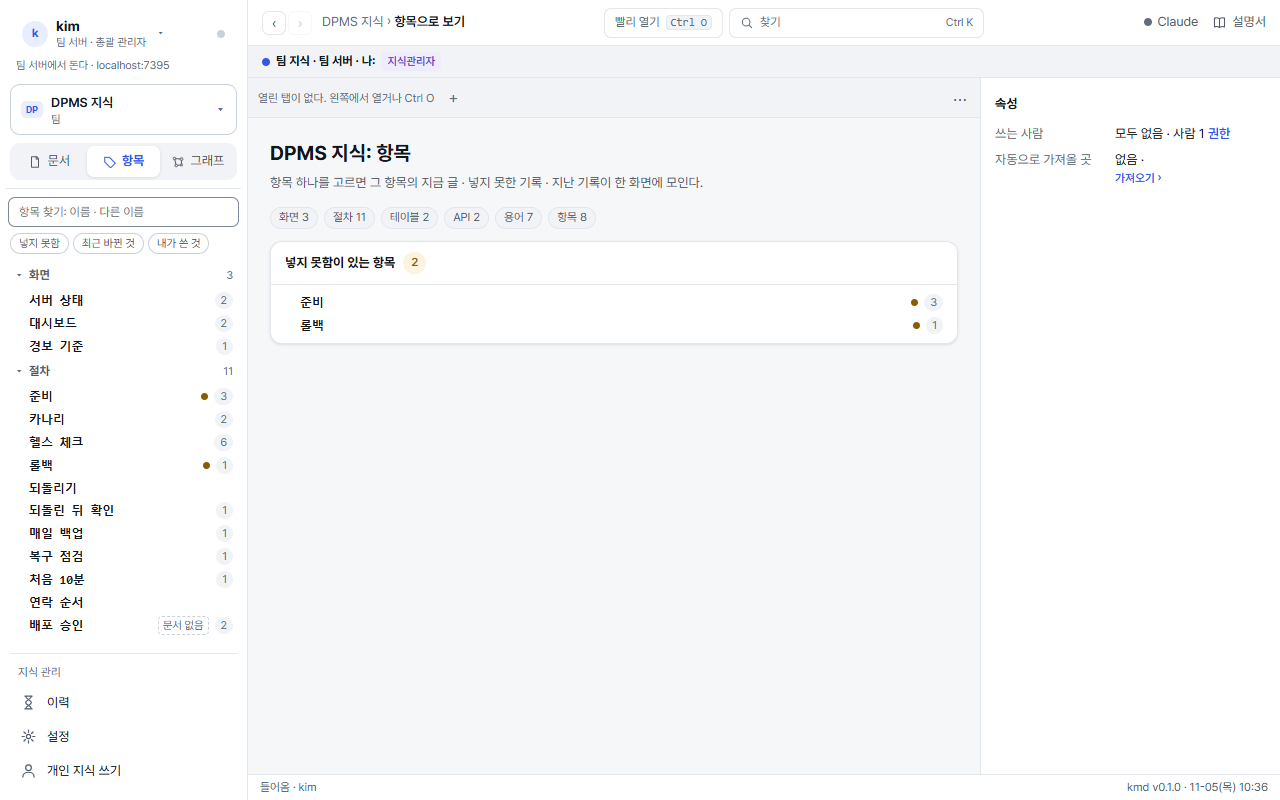
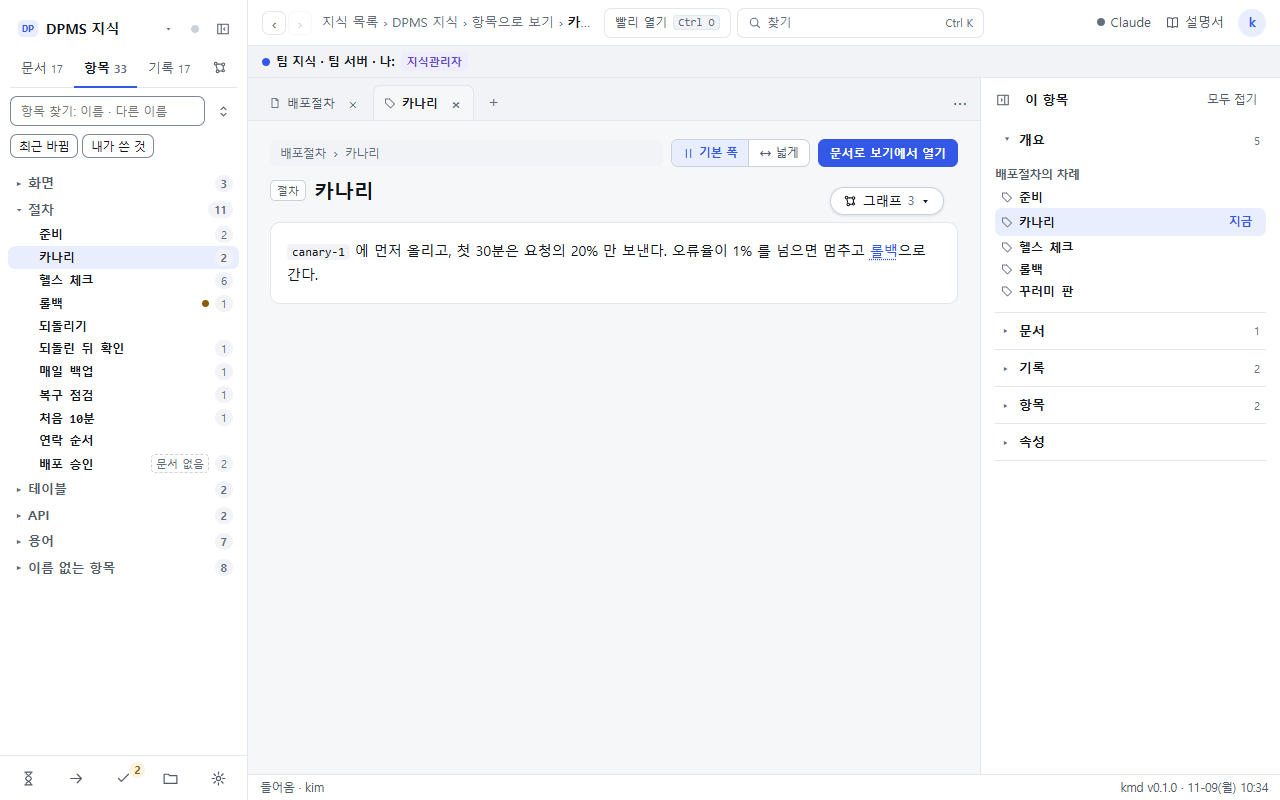
docs_ops 최신으로: 서비스 전체(md · 그림 판) · 설명서 다섯 장 · 설명서 그림 30장 다시 찍기
- 서비스 전체: 기준일 2026-11-09 · HEAD 24b4b72 · 188 빌드 0.1.0-20261109-0047 · 화면 지도(옆 메뉴 세 층 + 관리 아이콘 줄 · 설정 본문 안 메뉴 · 머리 줄 / 위 띠) · 말(승인 받고 넣기 · 이슈 주소 · 지켜보기 · 지식 점검) · 저장 단계(승인 기다림 · 함께 고친 항목 거절) · 보내기 [지금 다시] 횟수 · match 문서 제목 · local 범위 연결 · 계정(비밀번호 바꾸기 · 모든 곳에서 나가기 고름 · 한 사람 내보내기)
- 그림 판: 화면 지도 그림을 지금 메뉴로 다시 그림 · 말 표 넷 더함 · helpContact · 계정 줄
- 설명서: 사용자(지식 홈 · 찾기 거르기 · 상태 칩 · 그래프 뻗기 · 편집기 거절 · 표 붙이기 · 비밀번호 바꾸기 · 나가기 길 · 그림 핀 9개 새 자리) · 개인(지식 관리 줄 · 폴더 떼기 · 보내기 그림 · 핀) · 관리자(helpContact · 한 사람 내보내기 · 잠김 표시) · 지식관리자(지식 점검 카드)
- 그림: 옆 메뉴 다시 짜기 뒤 화면으로 30장 모두(시험 고정 자료 · 가짜 Claude · 1280×800 · 임시 폴더 경로는 /srv/kmd · D:\kmd 로 가림)

diff --git a/docs_ops/kmd_서비스_전체.html b/docs_ops/kmd_서비스_전체.html
@@ -200,7 +200,7 @@ svg.arch .hit:focus-visible rect{stroke:var(--accent);stroke-width:3;stroke-dash
 <div class="m-hero">
 <h1>kmd 서비스 전체</h1>
 <p>팀과 내 PC 의 지식(md 문서 · 기록)을 사람은 화면으로, Claude Code 세션은 MCP 로 같이 읽고 쓴다. 어느 길로 들어오든 기록과 항목 조각이 <b>한 번의 저장</b>으로 같이 바뀌고, 저장 검사를 넘지 못한 것은 기록만 남아 「넣지 못함」 으로 보인다. 지식 하나 = 폴더 하나 = git 저장소 하나.</p>
-<p class="small muted">기준일 2026-11-05 · HEAD e764294 · 188 빌드 0.1.0-20261105-1040 · 글로 보는 판 <a href="kmd_서비스_전체.md">kmd_서비스_전체.md</a> · 화면별 쓰는 법 <a href="manual/">설명서</a></p>
+<p class="small muted">기준일 2026-11-09 · HEAD 24b4b72 · 188 빌드 0.1.0-20261109-0047 · 글로 보는 판 <a href="kmd_서비스_전체.md">kmd_서비스_전체.md</a> · 화면별 쓰는 법 <a href="manual/">설명서</a></p>
 <p class="small muted">「저장이 곧 반영」 개편(2026-11 · <a href="../docs/품질개선/KMD_개편_설계.md">KMD_개편_설계.md</a>): 예전에는 기록을 모아 두었다가 정리 때 문서에 넣었다. 개편으로 정리를 걷었고, 지금은 모든 채널이 기록과 항목 조각을 한 번에 저장하고 그 자리에서 넣거나 「넣지 못함」 으로 남긴다.</p>
 <div class="kpis">
 <div class="kpi"><b>2</b><small>프로그램: 팀 프로그램(팀 서버) · 개인 프로그램</small></div>
@@ -413,6 +413,10 @@ svg.arch .hit:focus-visible rect{stroke:var(--accent);stroke-width:3;stroke-dash
 <tr><td><b>바로 넣기</b></td><td>개인 프로그램이 저장 뒤 곧바로 남은 기록을 문서 항목에 넣는 일(<code>core/pcplace.js</code>). 팀에는 없다</td><td>개인 지식만</td></tr>
 <tr><td><b>문서 다듬기</b></td><td>지식관리자가 문서 하나를 골라 거는 문체 · 짜임 정돈. 항목마다 값이 같을 때만 넣는다</td><td>문서 머리 [다듬기] · 일감 polish</td></tr>
 <tr><td><b>다시 그리기 · 빠진 항목 채우기</b></td><td>있는 항목을 그 항목의 기록 전부로 지금 상태로 다시 쓰거나, 사건 문서(회의록 …)에 빠진 회의를 그 기록으로 날짜 자리에 채운다. 저장 검사는 화면 저장과 같고 항목마다 사람이 승인한다. 화면 기능이 아니다</td><td>Claude Code 스킬 <code>kmd-migrate</code>(지식관리자) · 지식관리자 설명서 6절</td></tr>
+<tr><td><b>승인 받고 넣기</b></td><td>지식관리자가 켜는 지식 설정. 쓰기 자리의 저장은 검사를 넘어도 넣지 못함 「승인 기다림」 으로 두고, 지식관리자가 [승인해 넣기] 로 넣으려던 글 그대로 넣는다(지식관리자 자신의 저장 · 들이기는 그대로)</td><td>지식 카드 ⋯ · <code>_members.md</code></td></tr>
+<tr><td><b>옛 판 · 지운 항목</b></td><td>문서 머리 [옛 판] 은 그 문서를 바꾼 판(git)과 그때의 글 · [지금과 견주기]. 지식 홈 「최근에 지운 항목」 은 지운 때의 글로 다시 세운다(쓰기 자리부터)</td><td>이력에 남는다</td></tr>
+<tr><td><b>지식 점검</b></td><td>지식 홈 카드(지식관리자): 이름 없는 기록 · 장부 밖 이름 · 자리 잃은 이름 · 이름 없는 항목 · 다른 이름 겹침 · 깨진 머리 · 깨진 문서 링크</td><td><code>core/guard.js</code> · <code>kmd guard</code></td></tr>
+<tr><td><b>감사 기록 · 찾기 점검</b></td><td>관리 쓰기 요청을 누가 · 때 · 길 · 지식 · 결과로(본문 없음). 찾기 점검은 「제목 문제」 와 이름을 걷어 낸 「바꾼 문제」 를 함께 잰다</td><td>설정 › 점검 · <code>audit.jsonl</code> · <code>kmd search-check</code></td></tr>
 <tr><td><b>표지 · 출처</b></td><td>눈에 안 보이는 주석 셋(<code>applied</code> · <code>watched</code> · <code>baseline</code>)과 문서 끝 <code>&lt;!-- kmd:참고 --&gt;</code> 블록</td><td>화면의 「출처 n」 칩</td></tr>
 <tr><td><b>자리 · 기기 열쇠</b></td><td>지식 하나에 갖는 권한(없음 · 읽기 · 쓰기 · 지식관리자) · PC 마다 사람 이름으로 만든 열쇠 <code>kmdk_</code></td><td><a href="#roles">4 사람과 자리</a></td></tr>
 </table></div></div></div>
@@ -922,22 +926,22 @@ svg.arch .hit:focus-visible rect{stroke:var(--accent);stroke-width:3;stroke-dash
 
 <h3>화면 지도 · 두 판</h3>
 <div class="flowfig" role="figure" aria-label="팀 화면과 개인 화면의 지도">
-<svg class="arch" viewBox="0 0 1000 470" role="img" aria-label="팀 화면과 개인 화면은 머리 띠 · 옆 메뉴 · 보기가 같고, 설정 탭이 다르다. 팀 화면 설정은 가져오기 · 넣지 못함 · 일반 · 사람 · Claude 연결 · 에이전트 설치 · 관리, 개인 화면 설정은 가져오기 · 지식 보내기 · 일반 · Claude 연결 · 에이전트 설치">
-<rect class="zone" x="10" y="10" width="480" height="450" rx="12"/><text class="z" x="26" y="32">팀 화면 · 팀 서버</text>
-<rect class="zone" x="510" y="10" width="480" height="450" rx="12"/><text class="z" x="526" y="32">개인 화면 · 개인 프로그램 127.0.0.1:7373</text>
-<rect class="box team" x="26" y="44" width="448" height="52" rx="8"/><text class="t" x="40" y="66">들어가기</text><text class="l" x="40" y="86">아이디 · 비밀번호(처음 들어오기 링크로 정함) · 자리 받은 팀 지식만</text>
-<rect class="box" x="26" y="106" width="448" height="52" rx="8"/><text class="t" x="40" y="128">머리 띠</text><text class="l" x="40" y="148">빨리 열기 Ctrl O · 찾기 Ctrl K · Claude 상태 · 설명서 · 「⚠ 경고 n」</text>
-<rect class="box" x="26" y="168" width="448" height="70" rx="8"/><text class="t" x="40" y="190">옆 메뉴</text><text class="l" x="40" y="210">지식 고르기 · 문서 · 항목 · 그래프 · 지식 관리(이력 · 가져오기 · 넣지 못함 · 문서 짜임 · 설정)</text><text class="l" x="40" y="228">맨 아래 「개인 지식 쓰기」(개인 프로그램을 깔고 잇는 한 줄)</text>
-<rect class="box" x="26" y="248" width="448" height="70" rx="8"/><text class="t" x="40" y="270">보기</text><text class="l" x="40" y="290">문서 탭 여럿 · 가운데는 내용만 · 문서 폭 기본 | 넓게</text><text class="l" x="40" y="308">오른쪽 칸 개요 · 문서 · 기록 · 항목 · 속성 · 칸 접기 · 너비</text>
-<rect class="box team" x="26" y="328" width="448" height="118" rx="8"/><text class="t" x="40" y="350">설정</text><text class="l" x="40" y="372">가져오기 · 넣지 못함(쓰기 자리부터 · 가져올 곳 탭은 지식관리자)</text><text class="l" x="40" y="392">일반 · 사람 · Claude 연결(팀 일꾼) · 에이전트 설치</text><text class="l" x="40" y="412">관리(총괄 관리자)</text><text class="l" x="40" y="432">지식 관리 › 이력: 볼 수 있는 팀 지식의 바뀐 것 · 값 바뀜</text>
+<svg class="arch" viewBox="0 0 1000 560" role="img" aria-label="팀 화면과 개인 화면은 머리 줄 · 옆 메뉴 · 보기가 같다. 옆 메뉴는 위에서부터 지식 고르기 · 보기 탭(문서 · 항목 · 기록 · 그래프) · 찾기 칸과 목록 · 맨 아래 지식 관리 아이콘 줄. 팀 화면 설정은 점검 · 팀 서버 · 팀 지식 · 사람 · 묶음 · 에이전트 설치 · 나, 개인 화면 설정은 이 PC · Claude 연결 · 에이전트 설치">
+<rect class="zone" x="10" y="10" width="480" height="540" rx="12"/><text class="z" x="26" y="32">팀 화면 · 팀 서버</text>
+<rect class="zone" x="510" y="10" width="480" height="540" rx="12"/><text class="z" x="526" y="32">개인 화면 · 개인 프로그램 127.0.0.1:7373</text>
+<rect class="box team" x="26" y="44" width="448" height="52" rx="8"/><text class="t" x="40" y="66">들어가기</text><text class="l" x="40" y="86">아이디 · 비밀번호 · 「잊었거나 막혔으면 ○○에게」</text>
+<rect class="box" x="26" y="106" width="448" height="70" rx="8"/><text class="t" x="40" y="128">머리 줄 · 위 띠</text><text class="l" x="40" y="148">빨리 열기 Ctrl O · 찾기 Ctrl K · Claude 상태 · 설명서 · 나(동그라미)</text><text class="l" x="40" y="166">위 띠: 나의 자리 · 「⚠ 경고 n」 [알았다] · [다시 들어가기]</text>
+<rect class="box" x="26" y="186" width="448" height="108" rx="8"/><text class="t" x="40" y="208">옆 메뉴(위에서부터)</text><text class="l" x="40" y="228">① 지식 고르기 ▾</text><text class="l" x="40" y="246">② 보기 탭 「문서 · 항목 · 기록 · 그래프」</text><text class="l" x="40" y="264">③ 찾기 칸 + 도구 → 목록(첨부는 문서 나무 끝)</text><text class="l" x="40" y="282">④ 아이콘 줄: 이력 · 가져오기 · 넣지 못함 · 문서 짜임 · 설정</text>
+<rect class="box" x="26" y="304" width="448" height="70" rx="8"/><text class="t" x="40" y="326">보기</text><text class="l" x="40" y="346">지식 홈 · 문서 탭 여럿 · [옛 판] · [지켜보기] · 그래프 3D · 2D 표</text><text class="l" x="40" y="364">오른쪽 칸 개요 · 문서 · 기록 · 항목 · 속성 · 칸 접기 · 너비</text>
+<rect class="box team" x="26" y="384" width="448" height="152" rx="8"/><text class="t" x="40" y="406">설정(본문 안 왼쪽 메뉴 · 자리마다 보이는 것만)</text><text class="l" x="40" y="428">점검(감사 기록) · 팀 서버(Claude 연결 · 운영 값): 총괄 관리자</text><text class="l" x="40" y="448">팀 지식: 지식관리자부터 · 사람 · 묶음: 총괄 관리자</text><text class="l" x="40" y="468">에이전트 설치: 누구나 · 둘째 카드 「개인 지식 쓰기」</text><text class="l" x="40" y="488">나: 내 자리 · 내 설정 · 화면 밝기 · 비밀번호 바꾸기</text><text class="l" x="40" y="508">· 내 기기 · 나가기</text>
 <rect class="box pc" x="526" y="44" width="448" height="52" rx="8"/><text class="t" x="540" y="66">들어가기</text><text class="l" x="540" y="86">한 번용 주소(시작 메뉴 › kmd · kmd open) · 개인 지식만</text>
-<rect class="box" x="526" y="106" width="448" height="52" rx="8"/><text class="t" x="540" y="128">머리 띠(같음)</text><text class="l" x="540" y="148">Claude 상태는 내 로그인 · 「⚠ 경고 n」</text>
-<rect class="box" x="526" y="168" width="448" height="70" rx="8"/><text class="t" x="540" y="190">옆 메뉴</text><text class="l" x="540" y="210">지식 고르기 · 지식 폴더 띠 · 문서 · 항목 · 그래프 · 이력 · 설정</text><text class="l" x="540" y="228">「개인 지식 쓰기」 는 없다(팀 화면의 자리)</text>
-<rect class="box" x="526" y="248" width="448" height="70" rx="8"/><text class="t" x="540" y="270">보기(같음)</text><text class="l" x="540" y="290">기록은 남는 즉시 바로 넣기가 문서에 넣는다</text><text class="l" x="540" y="308">편집기로 직접 고친 문서도 감시해 기록을 남긴다</text>
-<rect class="box pc" x="526" y="328" width="448" height="118" rx="8"/><text class="t" x="540" y="350">설정</text><text class="l" x="540" y="372">가져오기 · 지식 보내기(개인 → 팀)</text><text class="l" x="540" y="392">일반 · Claude 연결(내 로그인) · 에이전트 설치</text><text class="l" x="540" y="412">넣지 못함 · 사람 · 관리는 없다</text><text class="l" x="540" y="432">지식 관리 › 이력: 개인 지식의 바뀐 것</text>
+<rect class="box" x="526" y="106" width="448" height="70" rx="8"/><text class="t" x="540" y="128">머리 줄 · 위 띠(같음)</text><text class="l" x="540" y="148">Claude 상태는 내 로그인</text><text class="l" x="540" y="166">위 띠: 밖으로 나가는 것 · 「⚠ 경고 n」</text>
+<rect class="box" x="526" y="186" width="448" height="108" rx="8"/><text class="t" x="540" y="208">옆 메뉴(같은 차례)</text><text class="l" x="540" y="228">①②③ 같음 · 지식 목록에 지식 폴더 띠</text><text class="l" x="540" y="246">([경로 복사] · [동기화] · [바꾸기] · [떼기])</text><text class="l" x="540" y="264">④ 아이콘 줄: 이력 · 가져오기 · 문서 짜임 · 지식 보내기 · 설정</text><text class="l" x="540" y="282">넣지 못함은 없다(바로 넣기)</text>
+<rect class="box" x="526" y="304" width="448" height="70" rx="8"/><text class="t" x="540" y="326">보기(같음)</text><text class="l" x="540" y="346">기록은 남는 즉시 바로 넣기가 문서에 넣는다</text><text class="l" x="540" y="364">편집기로 직접 고친 문서도 감시해 기록을 남긴다</text>
+<rect class="box pc" x="526" y="384" width="448" height="152" rx="8"/><text class="t" x="540" y="406">설정</text><text class="l" x="540" y="428">이 PC: 지식 폴더 · 백업 · 저절로 하는 일 · 보내는 길</text><text class="l" x="540" y="448">Claude 연결: 내 로그인 · 일마다 모델</text><text class="l" x="540" y="468">에이전트 설치: 작업 폴더에 개인 지식 더하기</text><text class="l" x="540" y="488">점검 · 팀 서버 · 사람 · 나는 없다</text>
 </svg>
 </div>
-<p class="small muted">메뉴 이름은 <code>app/main.js</code> 의 <code>mgItems</code> · <code>sideHtml</code> 그대로다. 팀 화면의 가져오기 · 넣지 못함은 쓰기 자리가 있는 팀 지식이 하나라도 있을 때, 관리는 총괄 관리자에게만 선다. 옛 정리 화면 주소(<code>#tidy</code>)는 넣지 못함 화면으로 간다.</p>
+<p class="small muted">메뉴 이름은 <code>core/menupath.js</code>(설정 <code>SET_TEAM</code> · <code>SET_PC</code> · 지식 관리 <code>WORK</code>)와 <code>app/main.js</code> 의 <code>setMenu</code> · <code>workMenu</code> · <code>mgItems</code> · <code>sideHtml</code> 그대로다(<code>test/menupath.test.mjs</code> 가 설명서 글의 「설정 › …」 길까지 맞춰 본다). 팀 화면의 가져오기 · 넣지 못함은 쓰기 자리가 있는 팀 지식이 하나라도 있을 때, 문서 짜임은 지식관리자에게 선다. 옛 정리 화면 주소(<code>#tidy</code>)는 넣지 못함 화면으로 간다.</p>
 
 <h3>저장 하나가 화면에 보이는 길</h3>
 <div class="flowfig" role="figure" aria-label="저장 하나의 결과가 화면 여러 곳에 보이는 길">
@@ -1163,6 +1167,7 @@ curl -s localhost:8090/healthz                 # build 가 새 판인지</code><
 <tr><td><code>KMD_INGEST_FIX</code></td><td>고쳐 쓰기(서버는 <code>serve.json</code> 의 <code>ingestFix</code>)</td><td>2(1 ~ 2)</td></tr>
 </table></div>
 <p class="small muted"><code>/etc/kmd/worker.env</code> 에 더한다. 옛 이름 <code>KMD_TIDY_PAR</code> · <code>_JOBS</code> · <code>_TICK_MS</code> · <code>_BUDGET</code> · <code>_EFFORT</code> 도 뒤 순서로 읽는다(<code>core/worker.js</code>). 들이기 한도는 <code>serve.json</code> 의 <code>intakeQueue</code> · <code>intakeDaily</code> · <code>intakeStaleMs</code>(<a href="#flows-import">5-③</a>).</p>
+<p class="small muted">들어가기 화면 아래 「잊었거나 막혔으면 ○○에게」 의 ○○ 은 <code>serve.json</code> 의 <code>helpContact</code>(글 한 줄 · 없으면 「총괄 관리자에게」). 설정 › 팀 서버 「운영 값」 카드가 <code>serve.json</code> 손잡이를 읽기만으로 보인다.</p>
 
 <h3>PC: 설치 한 줄 하나가 고르는 길</h3>
 <p>팀 화면 › 설정 › 에이전트 설치 › 개인 지식 쓰기 카드의 한 줄을 PowerShell 에 붙이면, 팀 서버가 그 PC 에 맞는 본문(<code>GET /i/&lt;표&gt;</code>)을 준다. 깔려 있나 · 판이 옛 것인가에 따라 세 길로 갈렸다가, 모두 <code>kmd connect</code> 로 모인다.</p>
@@ -1374,6 +1379,7 @@ curl -s localhost:8090/healthz                 # build 가 새 판인지</code><
 </svg>
 </div>
 <p class="small muted">① · ④ · ⑥ · ⑧ server/http.js · ⑤ server/hub.js · ② app/prehash.js · ③ core/passwd.js · core/auth.js · ⑦ core/atomic.js · core/owners.js. 오류 답은 모두 <code>{ error, message }</code> 꼴 · 상태 번호는 core/errors.js(E_INPUT 400 · E_AUTH 401 · E_FORBIDDEN · E_SUDO 403 · E_NOTFOUND 404).</p>
+<p class="small muted">계정: 잠긴 동안은 「잠김 · 풀리는 때」 를 알린다(비밀번호가 맞았는지 · 아이디가 있는지는 말하지 않는다). 사람은 설정 › 나에서 스스로 비밀번호를 바꾸고(이 브라우저는 이어 쓰고 다른 곳은 끊는다), 모든 곳에서 나가기는 기기 열쇠까지 끊을지 고른다. 총괄 관리자는 사람 카드 ⋯ 에서 한 사람만 모든 곳에서 내보낸다.</p>
 <h3>비밀이 사는 곳</h3>
 <p>비밀은 화면 · 로그 · 응답 · 설정 파일 어디에도 값으로 나오지 않는다. 사는 곳은 셋(PC 자격 저장소 · 서버 secrets.json · 서버 메모리)뿐 · 바깥에는 좁은 권한으로만 닿는다.</p>
 <div class="flowfig" role="figure" aria-label="비밀이 사는 곳">
@@ -1573,7 +1579,7 @@ curl -s localhost:8090/healthz                 # build 가 새 판인지</code><
 <a class="m-card" href="manual/운영.html"><b>운영 · 되살리기</b><p>밤 묶음 · 되살리기 · 새 판 · 막힐 때</p></a>
 <a class="m-card" href="kmd_서비스_전체.md"><b>이 장의 글 판</b><p>kmd_서비스_전체.md</p></a>
 </div>
-<p class="m-foot">기준일 2026-11-05 · HEAD e764294 · 188 빌드 0.1.0-20261105-1040. 남은 개선 거리는 <a href="../docs/품질개선/종합검토.md">종합검토</a> 「따로 할 것」 · 개편은 <a href="../docs/품질개선/KMD_개편_설계.md">KMD_개편_설계.md</a> · <a href="../docs/품질개선/KMD_개편_TODO.md">KMD_개편_TODO.md</a> · 판마다 바뀐 것은 <a href="../CHANGELOG.md">CHANGELOG</a>.</p>
+<p class="m-foot">기준일 2026-11-09 · HEAD 24b4b72 · 188 빌드 0.1.0-20261109-0047. 남은 개선 거리는 <a href="../docs/품질개선/종합검토.md">종합검토</a> 「따로 할 것」 · 개편은 <a href="../docs/품질개선/KMD_개편_설계.md">KMD_개편_설계.md</a> · <a href="../docs/품질개선/KMD_개편_TODO.md">KMD_개편_TODO.md</a> · 판마다 바뀐 것은 <a href="../CHANGELOG.md">CHANGELOG</a>.</p>
 </article>
 
 </div>

diff --git a/docs_ops/manual/사용자.html b/docs_ops/manual/사용자.html
@@ -22,30 +22,32 @@
 <h2 id="first"><span class="m-no">1</span>처음 들어오기</h2>
 <ol class="m-steps">
 <li><b>처음 들어오기 링크를 연다</b>관리자가 메신저로 보낸 링크(24시간 · 한 번)를 브라우저로 연다. 아이디는 링크와 함께 받는다.</li>
-<li><b>비밀번호를 정한다</b>브라우저가 제안하는 것을 써도 된다. 한 번 들어오면 일주일쯤 이어진다(12시간 쉬면 다시 묻는다).</li>
+<li><b>비밀번호를 정한다</b>브라우저가 제안하는 것을 써도 된다. 한 번 들어오면 쓰는 동안 이어진다(12시간 쉬면 · 7일이 지나면 다시 들어간다).</li>
 <li><b>지식 목록을 본다</b>자리를 받은 팀 지식만 카드로 선다. 보여야 할 지식이 없으면 관리자에게 자리를 부탁한다.</li>
 </ol>
 <figure class="m-shot"><div class="m-frame"><div class="m-bar"><i></i><i></i><i></i><span>&lt;팀 주소&gt;/ · 들어가기</span></div><div class="m-pic"><img src="img/t-login.png" alt="팀 kmd 에 들어간다: 아이디 · 비밀번호 칸과 들어가기 단추" loading="lazy"></div></div>
-<figcaption>들어가기 화면. 다음부터는 팀 주소를 즐겨찾기로 연다. 비밀번호를 잊었으면 관리자에게 「새 링크」 를 부탁한다.</figcaption></figure>
+<figcaption>들어가기 화면. 다음부터는 팀 주소를 즐겨찾기로 연다. 비밀번호를 잊었거나 여러 번 틀려 잠겼으면 화면 아래 「잊었거나 막혔으면 ○○에게」 줄의 사람에게 새 링크 · 잠김 풀기를 부탁한다. 잠긴 동안은 풀리는 때를 알려 준다.</figcaption></figure>
 
 <h2 id="screen"><span class="m-no">2</span>화면 둘러보기</h2>
 <figure class="m-shot"><div class="m-frame"><div class="m-bar"><i></i><i></i><i></i><span>팀 화면 · 문서로 보기</span></div><div class="m-pic"><img src="img/t-doc.png" alt="팀 화면: 왼쪽 메뉴 · 가운데 문서 · 오른쪽 속성 칸" loading="lazy">
-<span class="m-pin" style="left:9.8%;top:13.8%">1</span><span class="m-pin" style="left:15%;top:20%">2</span><span class="m-pin" style="left:4%;top:40%">3</span><span class="m-pin" style="left:4%;top:88%">4</span><span class="m-pin" style="left:62%;top:2.6%">5</span><span class="m-pin" style="left:45%;top:30%">6</span><span class="m-pin" style="left:73%;top:19%">7</span><span class="m-pin" style="left:88%;top:40%">8</span><span class="m-pin" style="left:95%;top:2.6%">9</span></div></div>
-<figcaption>DPMS 지식의 「배포절차」 문서를 연 모습(지식관리자). 넣지 못한 기록이 있는 항목 머리에 「넣지 못함 1」, 바로 넣은 항목에 「오늘 넣음: lee 의 기록에서」 가 보인다.</figcaption></figure>
+<span class="m-pin" style="left:4.1%;top:3.6%">1</span><span class="m-pin" style="left:9.6%;top:8.7%">2</span><span class="m-pin" style="left:2.5%;top:39.9%">3</span><span class="m-pin" style="left:2.5%;top:97%">4</span><span class="m-pin" style="left:52.1%;top:2.8%">5</span><span class="m-pin" style="left:26.2%;top:12.4%">6</span><span class="m-pin" style="left:72.5%;top:19.1%">7</span><span class="m-pin" style="left:88.3%;top:31.5%">8</span><span class="m-pin" style="left:93.3%;top:2.8%">9</span></div></div>
+<figcaption>DPMS 지식의 「배포절차」 문서를 연 모습(지식관리자). 제목 아래 마지막으로 바뀐 때 · 바꾼 사람, 문서 위 줄에 기본 폭 | 넓게 · [다듬기] · 지켜보기 · 옛 판 · [고치기]. 나무의 노란 점과 아래 관리 줄 배지 2 는 넣지 못함이다.</figcaption></figure>
 <ol class="m-legend">
 <li><b>지식 고르기</b>: 옆 메뉴 맨 위 지식 이름 ▾. 지식을 바꾸거나 「지식 목록: 전체」 로 간다.</li>
 <li><b>보기 탭</b>: 문서 · 항목 · 기록 · 그래프(아이콘) 한 줄. 이름 옆 흐린 수는 그 수.</li>
 <li><b>목록(나무)</b>: 고른 탭의 목록. 첨부는 문서 나무 끝 「첨부」 묶음. 다른 화면에 가도 그대로다.</li>
 <li><b>지식 관리</b>: 옆 메뉴 맨 아래 아이콘 줄 — 이력 · 가져오기 · 넣지 못함(배지) · 문서 짜임(지식관리자) · 설정(에이전트 설치 · 나 …). 이름은 마우스를 올리면 보인다.</li>
 <li><b>빨리 열기 · 찾기</b>: <kbd>Ctrl</kbd> <kbd>O</kbd> · <kbd>Ctrl</kbd> <kbd>K</kbd>.</li>
-<li><b>옆 메뉴</b>: 위에서부터 지식 고르기 → 보기 탭 「문서 · 항목 · 기록 · 그래프」 → 찾기 칸 → 목록 → 관리 아이콘 줄. 문서는 지식 폴더(<code>docs/</code>)의 폴더 짜임 그대로 나무로 보인다. 폴더 줄 · 항목 종류 줄을 누르면 접고 편다(처음은 모두 접힘 · 지금 연 것의 묶음은 펼침 · 찾기 칸 옆 아이콘이 「모두 펴기」). 기록 탭의 찾기 칸 옆 아이콘은 「내가 쓴 것만」, 항목의 「최근 바뀜 · 내가 쓴 것」 은 거르기 단추라 누르면 파랗게 켜진다. 넣지 못함은 관리 줄 배지 한 곳에서 본다(목록에는 줄 끝 노란 점만). 접으면(<kbd>Ctrl</kbd> <kbd>[</kbd>) 같은 차례의 아이콘만 남는다. 들어온 사람(설정 · 단축키 · 나가기)은 머리 줄 오른쪽 끝 동그라미다. 그래프는 맨 위 「보기: 선 · 제목 · 회전」 을 켜고 끈다.</li>
-<li><b>문서</b>: 탭으로 여러 개 · 나란히 보기 <kbd>Ctrl</kbd> <kbd>\</kbd>.</li>
+<li><b>문서 탭</b>: 탭으로 여러 개 · 나란히 보기 <kbd>Ctrl</kbd> <kbd>\</kbd>.</li>
 <li><b>고치기</b>: 쓰기 자리 이상에만 선다.</li>
 <li><b>오른쪽 칸</b>: 개요 · 문서 · 기록 · 항목 · 속성 다섯 묶음(처음은 모두 접힘 · 지금 보는 것에 「지금」). 가운데에는 문서 내용만 둔다.</li>
 <li><b>설명서</b>: 이 설명서가 새 탭으로.</li>
 </ol>
+<p><b>옆 메뉴</b>: 위에서부터 지식 고르기 → 보기 탭 「문서 · 항목 · 기록 · 그래프」 → 찾기 칸 → 목록 → 관리 아이콘 줄. 문서는 지식 폴더(<code>docs/</code>)의 폴더 짜임 그대로 나무로 보인다. 폴더 줄 · 항목 종류 줄을 누르면 접고 편다(처음은 모두 접힘 · 지금 연 것의 묶음은 펼침 · 찾기 칸 옆 아이콘이 「모두 펴기」). 기록 탭의 찾기 칸 옆 아이콘은 「내가 쓴 것만」, 항목의 「최근 바뀜 · 내가 쓴 것」 은 거르기 단추라 누르면 파랗게 켜진다. 넣지 못함은 관리 줄 배지 한 곳에서 본다(목록에는 줄 끝 노란 점만). 접으면(<kbd>Ctrl</kbd> <kbd>[</kbd>) 같은 차례의 아이콘만 남는다. 들어온 사람(설정 · 단축키 · 나가기)은 머리 줄 오른쪽 끝 동그라미다. 그래프는 맨 위 「보기: 선 · 제목 · 회전」 을 켜고 끈다.</p>
 <div class="m-note m-tip"><b>칸 접기 · 너비 · 문서 폭</b><p>옆 메뉴(<kbd>Ctrl</kbd> <kbd>[</kbd>) · 오른쪽 칸(<kbd>Ctrl</kbd> <kbd>]</kbd>)은 접으면 아이콘 띠만 남는다. 칸 가장자리를 끌면 너비가 바뀌고, 두 번 누르면 처음 너비로 돌아온다. 문서 위 「기본 폭 | 넓게」 로 넓은 표를 한눈에 본다. 그래프는 본문 오른쪽 위 「그래프 ▾」 를 누르면 이웃이 뜨고, 점을 누르면 그것이 열린다. 이 모두는 이 브라우저에만 남는다.</p></div>
-<p>위 띠의 파란 점 줄은 지금 내 자리(「팀 지식 · 팀 서버 · 나: 지식관리자」)를 늘 보인다. 저절로 하는 일이 멈추면 머리 오른쪽에 「⚠ 경고 n」 이 선다. 누르면 무엇이 멈췄고 어떻게 푸는지가 보인다.</p>
+<p>위 띠의 파란 점 줄은 지금 내 자리(「팀 지식 · 팀 서버 · 나: 지식관리자」)를 늘 보인다. 저절로 하는 일이 멈추면 위 띠 오른쪽에 「⚠ 경고 n」 이 선다. 누르면 무엇이 멈췄고 어떻게 푸는지가 보이고, 줄마다 [알았다] 로 나에게서 걷는다. 들어간 것이 끝났으면 같은 자리에 [다시 들어가기] 가 선다(뒤에서 읽던 것은 창을 띄우지 않고 이 띠로만 알린다).</p>
+<h3>지식 홈</h3>
+<p>지식을 고르고 문서를 열지 않았을 때의 첫 화면이다. 최근 바뀐 문서 · 내 넣지 못함 · <b>최근에 지운 항목</b>(쓰기 자리부터 [되살리기]: 지운 때의 글로 다시 세우고 이력에 남는다) · 지식관리자에게는 <b>지식 점검</b> 카드가 선다.</p>
 
 <h3>지식 목록</h3>
 <figure class="m-shot"><div class="m-frame"><div class="m-bar"><i></i><i></i><i></i><span>팀 화면 · 지식 목록</span></div><div class="m-pic"><img src="img/t-home.png" alt="지식 목록: 팀 지식 카드와 새 팀 지식 카드" loading="lazy"></div></div>
@@ -55,12 +57,17 @@
 <div class="m-cards">
 <div class="m-card"><img src="img/t-doc.png" alt="" loading="lazy"><b>문서</b><p>문서 하나 = md 파일 하나. 항목(## 머리)으로 나뉜다. 글 속 문서 · 항목 링크에 마우스를 올리면 미리보기.</p></div>
 <div class="m-card"><img src="img/t-items.png" alt="" loading="lazy"><b>항목</b><p>테이블 · 화면 · API · 절차 · 용어처럼 이름 있는 것 하나하나. 종류별로 거르고, 「이 항목을 쓰는 곳」 이 같이 보인다.</p></div>
-<div class="m-card"><img src="img/t-graph.png" alt="" loading="lazy"><b>그래프</b><p>문서 · 항목 · 기록이 어떻게 이어졌나. 3D 와 2D 표(문서 상자 안에 항목) 두 방식. 3D 에서 큰 점 · 이름이 보이는 점이 많이 이어진 중심(허브)이고, 허브마다 제 이웃을 둘레에 모은다. 바탕은 밝게 · 어둡게. 점을 누르면 이웃 한 겹만 남고, 이웃을 누르면 더 뻗는다. × 로 닫으면 전체.</p></div>
+<div class="m-card"><img src="img/t-graph.png" alt="" loading="lazy"><b>그래프</b><p>문서 · 항목 · 기록이 어떻게 이어졌나. 3D 와 2D 표(문서 상자 안에 항목) 두 방식. 3D 에서 큰 점 · 이름이 보이는 점이 많이 이어진 중심(허브)이고, 허브마다 제 이웃을 둘레에 모은다. 바탕은 밝게 · 어둡게. 점을 누르면 이웃 한 겹만 남고, 이웃을 누르면 더 뻗는다(「뻗기 거두기」 · 「처음 점으로」 · 뻗은 점이 칸 밖이면 [다 보이게]). 카드의 [기록 n 펴기] 로 그 점의 기록을 펼친다. × 로 닫으면 전체.</p></div>
 </div>
 
 <h2 id="search"><span class="m-no">4</span>찾기</h2>
 <figure class="m-shot"><div class="m-frame"><div class="m-bar"><i></i><i></i><i></i><span>찾기 · Ctrl K</span></div><div class="m-pic"><img src="img/t-search.png" alt="찾기 창: 이름이 맞는 것 · 문서 속 글" loading="lazy"></div></div>
 <figcaption>「카나리」 를 찾은 모습. 이름이 딱 맞는 항목이 먼저, 그다음 문서 속 글이 선다. ↑ ↓ 로 고르고 Enter 로 연다.</figcaption></figure>
+<ul>
+<li>위 거르기 <b>모두 · 문서만 · 기록만</b>으로 좁힌다.</li>
+<li>기록 줄에는 상태 칩(바로잡힘 · 넣지 못함 · 메모 · 개편 전)이 붙는다. 바로잡히거나 버리거나 되돌린 기록은 맨 뒤로 간다.</li>
+<li>여러 지식에서 찾으면 지식마다의 순위를 섞어 한 줄로 세운다(한 지식이 위를 다 차지하지 않는다).</li>
+</ul>
 <div class="m-tbl"><table><tr><th>단축키</th><th>하는 것</th></tr>
 <tr><td><kbd>Ctrl</kbd> <kbd>K</kbd></td><td>찾기: 이름 · 다른 이름 · 문서 속 글</td></tr>
 <tr><td><kbd>Ctrl</kbd> <kbd>O</kbd></td><td>빨리 열기: 문서 · 항목 이름으로 바로</td></tr>
@@ -84,6 +91,9 @@
 <li>쓰던 글은 찾기를 열고 닫거나 다른 화면에 갔다 와도 그대로다. 저장하지 않고 닫았으면 다음 [고치기] 때 되살린다(이 탭 안에서).</li>
 <li>들어온 것이 끝났으면(12시간 쉼 · 7일) 저장할 때 그 자리에서 비밀번호를 묻고 이어서 저장한다.</li>
 <li>고치는 사이 누가 같은 항목을 고쳤으면 저장하지 않고 「읽은 뒤 누가 고쳤다」 를 보인다. 새 글을 다시 읽어 두었고 쓰던 글은 그대로다. 고친 곳을 확인하고 다시 저장한다.</li>
+<li>여러 항목을 함께 고쳤는데 하나라도 검사에 걸리면 아무것도 저장하지 않는다. 걸린 까닭과 함께 고친 항목 수, 걸린 항목마다 [그 항목으로] 가 보인다.</li>
+<li>엑셀 · 표 글(탭으로 나뉜 줄)을 붙여 넣으면 md 표로 바뀐다. 그림은 붙여 넣을 수 없다(첨부는 가져오기의 「원본 파일도 첨부로 둔다」).</li>
+<li>표 줄의 칸 수가 머리 줄과 다르면 저장은 하고 알린다.</li>
 <li>Claude 는 부르지 않는다. 값이 맞는지는 고친 사람이 본다. 이력의 「고침」 줄을 펼치면 항목마다 옛 값 → 새 값이 보이고 [되돌리기] 로 그 항목만 되돌린다.</li>
 </ul>
 <h3 id="recfix">기록 고치기(정정 기록)</h3>
@@ -183,7 +193,8 @@
 
 <h2 id="out"><span class="m-no">10</span>나가기 · 밖으로 나가는 것</h2>
 <ul>
-<li><b>나가기</b>: 왼쪽 위 내 이름 › 나가기 또는 설정 › 나 › 나가기(이 브라우저) · 모든 곳에서 나가기(다른 기기 · 브라우저도. Claude Code 의 기기 열쇠는 그대로).</li>
+<li><b>나가기</b>: 머리 줄 오른쪽 끝 동그라미 › 나가기 또는 설정 › 나 › 나가기(이 브라우저) · 모든 곳에서 나가기(다른 기기 · 브라우저도. 기기 열쇠(Claude Code 연결 · 개인 프로그램의 팀 잇기)까지 끊을지 고른다). 고치던 글이 있으면 먼저 묻는다.</li>
+<li><b>비밀번호 바꾸기</b>: 설정 › 나 › 비밀번호 바꾸기(지금 비밀번호 · 새 비밀번호 10자 이상). 이 브라우저는 그대로 쓰고 다른 곳은 다시 들어간다. 기기 열쇠는 그대로다.</li>
 <li>팀 지식이 밖으로 나가는 길은 <b>백업</b>(지식마다 정한 git 자리)과 <b>Claude 들이기 · 다듬기</b>(팀 서버의 팀 일꾼 로그인)뿐이다. 「Claude 에 보내지 않음」 지식은 Claude 에 보내지 않는다.</li>
 </ul>
 </article>

diff --git a/docs_ops/manual/개인.html b/docs_ops/manual/개인.html
@@ -18,7 +18,7 @@
 <h2 id="install"><span class="m-no">1</span>설치 · 업데이트 · 팀에 잇기</h2>
 <p>팀 지식만 쓰면 개인 프로그램은 필요 없다: 팀 화면 › 설정 › 에이전트 설치의 한 줄로 작업 폴더의 Claude Code 에 팀 지식을 붙이고, 폴더째 많은 파일도 그 Claude Code 에서 넣는다(대량 넣기 <code>kmd-team-import</code>). 개인 지식을 쓰려면 이 프로그램을 깐다.</p>
 <p>까는 길도, 새 판으로 올리는 길도 <b>한 줄</b>이다. 팀 화면 › 설정 › 에이전트 설치 › <b>개인 지식 쓰기</b> 카드 › [한 줄 복사] → PowerShell 에 붙여 넣는다(10분 안에 한 번).</p>
-<figure class="m-shot"><div class="m-frame"><div class="m-bar"><i></i><i></i><i></i><span>팀 화면 › 설정 › 에이전트 설치 › 개인 지식 쓰기</span></div><div class="m-pic"><img src="img/t-install.png" alt="개인 지식 쓰기: 한 줄 복사 · 내 기기" loading="lazy"></div></div><figcaption>팀 화면 옆 메뉴 맨 아래 「개인 지식 쓰기」: 설치 · 업데이트 · 잇기 한 줄 [한 줄 복사] 와 내 이름으로 이은 기기.</figcaption></figure>
+<figure class="m-shot"><div class="m-frame"><div class="m-bar"><i></i><i></i><i></i><span>팀 화면 › 설정 › 에이전트 설치 › 개인 지식 쓰기</span></div><div class="m-pic"><img src="img/t-install.png" alt="개인 지식 쓰기: 한 줄 복사 · 내 기기" loading="lazy"></div></div><figcaption>팀 화면 › 설정 › 에이전트 설치의 둘째 카드 「개인 지식 쓰기」: 설치 · 업데이트 · 잇기 한 줄 [한 줄 복사] 와 내 이름으로 이은 기기.</figcaption></figure>
 <p>묻는 것 없이 끝나고 ✓ 넷이 찍힌다.</p>
 <pre><code>✓ 세웠다: 이 PC 의 내 지식 자리(D:\kmd)와 백업 자리
 ✓ 팀에 이었다: 내 이름으로
@@ -43,12 +43,12 @@
 
 <h2 id="screen"><span class="m-no">3</span>개인 화면</h2>
 <figure class="m-shot"><div class="m-frame"><div class="m-bar"><i></i><i></i><i></i><span>개인 화면 · 지식 목록</span></div><div class="m-pic"><img src="img/p-home.png" alt="개인 화면 지식 목록: 지식 폴더 띠 · 지식 카드" loading="lazy">
-<span class="m-pin" style="left:30%;top:24%">1</span><span class="m-pin" style="left:31%;top:40%">2</span><span class="m-pin" style="left:88%;top:44%">3</span><span class="m-pin" style="left:4%;top:94%">4</span></div></div></figure>
+<span class="m-pin" style="left:44.3%;top:26.6%">1</span><span class="m-pin" style="left:30.4%;top:38.4%">2</span><span class="m-pin" style="left:69.5%;top:41%">3</span><span class="m-pin" style="left:9.6%;top:97%">4</span></div></div></figure>
 <ol class="m-legend">
-<li><b>지식 폴더 띠</b>: 경로 · [경로 복사] · [동기화] · [바꾸기](다른 폴더를 잇는다).</li>
+<li><b>지식 폴더 띠</b>: 경로 · [경로 복사] · [동기화] · [바꾸기](다른 폴더를 잇는다) · [떼기](폴더 이름을 보이고 확인한 뒤 뗀다 · 파일은 지우지 않는다).</li>
 <li><b>지식 카드</b>: 받은편지함 · 내가 만든 지식. 끌어서 순서, ⋯ 에서 메뉴에서 빼기.</li>
 <li><b>+ 새 지식</b>: 이름만, 또는 폴더 경로(그 폴더의 md · docx · pptx · xlsx 를 한 번 들인다).</li>
-<li><b>지식 관리</b>: 이력 · 설정(가져오기 · 지식 보내기 · 일반 · Claude 연결 · 에이전트 설치).</li>
+<li><b>지식 관리</b>: 옆 메뉴 맨 아래 아이콘 줄 — 이력 · 가져오기 · 문서 짜임 · 지식 보내기 · 설정(이 PC · Claude 연결 · 에이전트 설치).</li>
 </ol>
 <p>보는 법 · 찾기 · 고치기는 팀 화면과 같다(<a href="사용자.html#view">쓰는 사람 설명서</a>). 다른 점은 둘이다.</p>
 <ul>
@@ -70,19 +70,19 @@
 
 <h2 id="send"><span class="m-no">5</span>지식 보내기(개인 → 팀)</h2>
 <figure class="m-shot"><div class="m-frame"><div class="m-bar"><i></i><i></i><i></i><span>지식 관리 › 지식 보내기</span></div><div class="m-pic"><img src="img/p-send.png" alt="지식 보내기: 보내는 지식에서 받는 팀 지식 고르기" loading="lazy">
-<span class="m-pin" style="left:40%;top:24%">1</span><span class="m-pin" style="left:76%;top:24%">2</span><span class="m-pin" style="left:60%;top:46%">3</span><span class="m-pin" style="left:93%;top:61%">4</span></div></div><figcaption>받는 지식을 아직 정하지 않은 개인 지식. 팀 지식 줄마다 「받을 때 곧바로 문서에」.</figcaption></figure>
+<span class="m-pin" style="left:30%;top:29%">1</span><span class="m-pin" style="left:64%;top:29%">2</span><span class="m-pin" style="left:91%;top:37.4%">3</span><span class="m-pin" style="left:91%;top:62.6%">4</span></div></div><figcaption>받는 팀 지식을 정해 둔 개인 지식 「배포노트」. 받는 지식 칸에 「받을 때 곧바로 문서에」, 아래 줄에 보내는 길 · 고른 수.</figcaption></figure>
 <ol class="m-legend">
 <li><b>보내는 지식</b>(개인).</li>
 <li><b>받는 지식</b>(팀). 개인 지식마다 하나로 묶인다. 처음 한 번 정한다.</li>
-<li><b>고를 수 있는 팀 지식</b>: 내가 쓰기 자리 이상인 것만.</li>
-<li><b>정하기</b>: 바꿀 때는 새 이름을 그대로 쳐야 바뀐다.</li>
+<li><b>받는 지식 바꾸기</b>: 고를 수 있는 팀 지식은 내가 쓰기 자리 이상인 것만. 바꿀 때는 새 이름을 그대로 쳐야 바뀐다.</li>
+<li><b>보내기</b>: 탭에서 기록 · 문서를 고르면 [「받는 지식」 으로 n개 보내기] 로 바뀐다.</li>
 </ol>
 <ul>
 <li>탭: <b>기록</b>(보내지 않은 것 먼저) · <b>문서</b>(늘 통째로 · 「보낸 적 없음」 · 「보낸 뒤 고침」) · <b>보낸 것</b>.</li>
 <li>단추와 확인 창에 받는 지식 이름이 늘 들어간다(예: [DPMS 지식으로 2개 보내기]).</li>
 <li>고른 것마다 이 PC 의 Claude(내 Claude 로그인)가 받는 팀 지식의 문서를 읽고 그 지식의 작성기준에 맞춰 기록과 항목 글을 짓는다. 팀 지식이 검사해 넘은 것은 <b>그 순간 문서에 들어간다</b>. 못 넘은 것은 기록에 「넣지 못함」 으로 남는다.</li>
 <li>보낸 뒤 알림 · <b>보낸 것</b> 탭에 「넣음 n · 넣지 못함 n」 이 보인다. 같은 것을 다시 보내면 「이미 넣음」 이고 팀에는 아무것도 쓰지 않는다.</li>
-<li>넣지 못함이 남은 글은 위에 <b>「넣지 못함」 줄</b>이 선다: [지금 다시] 는 다시 지어 보내고 앞의 넣지 못함 기록을 바로잡는다. [버리기] 는 줄만 걷는다(팀의 기록은 남는다 · 그 지식의 지식관리자가 넣지 못함에서 고친다).</li>
+<li>넣지 못함이 남은 글은 위에 <b>「넣지 못함」 줄</b>이 선다: [지금 다시] 는 다시 지어 보내고 앞의 넣지 못함 기록을 바로잡는다(다시 한 횟수와 때가 보이고, 같은 까닭으로 또 걸리면 무엇을 고칠지 알려 준다). [버리기] 는 줄만 걷는다(팀의 기록은 남는다 · 그 지식의 지식관리자가 넣지 못함에서 고친다).</li>
 <li>새 문서는 받는 지식의 지식관리자 자리일 때만 선다. 쓰기 자리면 그 글은 넣지 못함이다.</li>
 <li>받는 팀 지식이 「Claude 에 보내지 않음」 이거나 내 Claude 로그인이 없으면 Claude 를 부르지 않고 기록만 보낸다(팀에서 넣지 못함).</li>
 <li>보내는 일은 이 PC 의 기기 열쇠로 한다. 팀 서버에 닿지 않으면 저절로 다시 보낸다. 팀이 「저장이 너무 잦다」 고 하면 알려 준 시간만큼 쉬고 이어 보낸다. 팀 화면에는 보내기 메뉴가 없다.</li>

diff --git a/docs_ops/manual/관리자.html b/docs_ops/manual/관리자.html
@@ -24,6 +24,7 @@ sudo sh kmd-install.sh --team --url http://kmd.team.local --root /srv/kmd --port
 <li>systemd 로 둘을 늘 켠다: <code>kmd.service</code>(팀 서버) · <code>kmd-worker.service</code>(팀 일꾼 · 열쇠와 환경 변수는 root 만 읽는 <code>/etc/kmd/worker.env</code> · 다시 깔아도 덮지 않는다).</li>
 <li>GitLab 열쇠는 숨김 입력으로만 받는다. <b>만들기 권한만</b> 있는 봇 열쇠(지우기 · 보호 해제 없음). 지식마다 저장소를 만들어 백업 자리로 붙인다.</li>
 <li>끝에 찍힌 <b>첫 설정 주소</b>를 브라우저로 열어 총괄 관리자 아이디 · 비밀번호를 정한다.</li>
+<li>들어가기 화면 아래 「잊었거나 막혔으면 ○○에게」 의 ○○ 은 <code>/srv/kmd/.kmd/serve.json</code> 의 <code>helpContact</code>(글 한 줄 · 없으면 「총괄 관리자에게」). 고친 뒤 <code>systemctl restart kmd</code>.</li>
 <li>팀 꾸러미 안의 PC 꾸러미(<code>kmd-&lt;판&gt;-pc.zip</code>)는 받기 자리 <code>/srv/kmd/.kmd/dl/</code> 에 놓인다(<code>&lt;팀 주소&gt;/dl</code>). 사람들의 설치 한 줄이 여기서 받아 간다.</li>
 <li>셸 명령 <code>kmd</code>(<code>/usr/local/bin/kmd</code>)도 둔다. 어느 사용자로 쳐도 kmd 사용자로 · 이 지식 폴더로 돈다.</li>
 </ul>
@@ -39,7 +40,7 @@ sudo sh kmd-install.sh --team --url http://kmd.team.local --root /srv/kmd --port
 <figcaption>위 칩 줄: 멈춤 · 넣지 못함 · 백업 문제 · 팀 일꾼. 잘 될 때는 「오늘은 문제가 없다」 만 보인다. 손볼 것만 줄로 서고, 줄마다 고치는 자리로 가는 단추가 있다(백업 어긋남은 이 자리에서 이어 쓰기 · 덮기).</figcaption></figure>
 <div class="m-tbl"><table><tr><th>문제 줄</th><th>하는 것</th></tr>
 <tr><td>비밀번호를 안 정한 사람</td><td>사람 카드 ⋯ › [새 링크](이 사람만 · 24시간 · 한 번). 떠난 사람이면 [떠남]</td></tr>
-<tr><td>잠김</td><td>여러 번 틀린 자리는 잠시 막힌다(맞는 사람은 그대로 쓴다). [풀기]</td></tr>
+<tr><td>잠김</td><td>여러 번 틀린 자리는 잠시 막힌다(맞는 사람은 그대로 쓴다 · 사람 줄에도 잠김이 보인다). [풀기]</td></tr>
 <tr><td>관리자에게 부탁</td><td>쓰기 자리 사람이 더해 달라는 가져올 곳. [더하기] 또는 [거절](까닭과 함께 · 부탁한 사람의 이력에 남는다)</td></tr>
 <tr><td>팀 일꾼이 쉬고 있다</td><td>팀 일꾼 Claude 로그인이 끝났거나 한도. 그동안 들이기는 기다린다(24시간 넘으면 기록만 + 넣지 못함). 아래 Claude 연결에서 다시</td></tr>
 <tr><td>팀 일꾼이 일감을 받지 않는다</td><td>10분 넘게 받지 않으면 선다. <code>systemctl status kmd-worker</code> · 서버의 <code>claude</code> 로그인을 본다</td></tr>
@@ -55,7 +56,7 @@ sudo sh kmd-install.sh --team --url http://kmd.team.local --root /srv/kmd --port
 <ol class="m-legend">
 <li><b>+ 사람 더하기</b>: 아이디 · 총괄 관리자 여부 · 지식마다 자리 표.</li>
 <li><b>사람 카드</b>: 상태(들어온다 · 링크 보냄 · 비밀번호를 안 정함) · 기기 · 「지식 n개에 자리」.</li>
-<li><b>⋯</b>: 새 링크 · 총괄 관리자로 · 기기 모두 끊기 · 떠남.</li>
+<li><b>⋯</b>: 새 링크 · 총괄 관리자로 · 모든 곳에서 내보내기(그 사람의 브라우저만 끊는다 · 비밀번호와 기기 열쇠는 그대로) · 기기 모두 끊기 · 떠남.</li>
 </ol>
 <ol class="m-steps">
 <li><b>사람 더하기</b>아이디(영문 · 숫자 · . _ -)와 지식마다 자리(없음 · 읽기 · 쓰기 · 지식관리자)를 고른다. 고르지 않은 지식은 없음이다.</li>
@@ -81,7 +82,7 @@ sudo sh kmd-install.sh --team --url http://kmd.team.local --root /srv/kmd --port
 </table></div>
 
 <h2 id="claude"><span class="m-no">5</span>설정 › 팀 서버: 팀 일꾼 로그인</h2>
-<figure class="m-shot"><div class="m-frame"><div class="m-bar"><i></i><i></i><i></i><span>설정 › 팀 서버</span></div><div class="m-pic"><img src="img/t-claude.png" alt="팀 서버: 팀 일꾼 로그인 상태 · 이 서버" loading="lazy"></div></div><figcaption>「Claude 연결」 카드(팀 일꾼 로그인) · 어떻게 하나 · 이 서버(주소 · 판 · https): 로그인됨 · [다시 로그인]. 쓰는 곳은 들이기(파일 넣기 · 가져올 곳 · 정정 · 다시 들이기)와 문서 다듬기다.</figcaption></figure>
+<figure class="m-shot"><div class="m-frame"><div class="m-bar"><i></i><i></i><i></i><span>설정 › 팀 서버</span></div><div class="m-pic"><img src="img/t-claude.png" alt="팀 서버: 팀 일꾼 로그인 상태 · 이 서버" loading="lazy"></div></div><figcaption>「Claude 연결」 카드(팀 일꾼 로그인: 아직이면 [로그인 시작] · 됐으면 「로그인됨」 · [다시 로그인]) · 어떻게 하나 · 운영 값(읽기만). 쓰는 곳은 들이기(파일 넣기 · 가져올 곳 · 정정 · 다시 들이기)와 문서 다듬기다.</figcaption></figure>
 <ol class="m-steps">
 <li><b>[로그인 시작]</b>: 15분 안에 비밀번호를 넣지 않았으면 「비밀번호 한 번 더」 창이 먼저 뜬다.</li>
 <li><b>화면 있는 서버</b>(Windows · macOS · 화면 있는 Linux)면 그 PC 에 「kmd: Claude 로그인」 창이 뜬다. 거기서 로그인하면 관리 화면이 몇 초마다 저절로 확인한다.</li>

diff --git a/docs_ops/manual/지식관리자.html b/docs_ops/manual/지식관리자.html
@@ -147,7 +147,7 @@
 <li>항목 이름에 날짜 · 「수정」 · 「추가」 를 넣지 않는다(회의록 같은 사건 문서만 날짜).</li>
 <li>출처 · 상태 · 내부 표식은 kmd 가 문서 끝 「참고」 에 둔다. 본문에 주석 · 기록 링크를 두지 않는다.</li>
 </ul></div>
-<p>점검이 필요하면 총괄 관리자에게 <code>kmd guard &lt;지식&gt;</code>(이름 없는 기록 · 장부 밖 이름 · 깨진 머리 수)와 <code>kmd search-check &lt;지식&gt;</code>(찾기 점검)를 부탁한다.</p>
+<p><b>지식 점검</b>: 지식 홈(문서를 열지 않은 첫 화면)의 지식 점검 카드에 이름 없는 기록 · 장부 밖 이름 · 폐기된 이름 · 자리 잃은 이름 · 이름 없는 항목 · 다른 이름 겹침 · 깨진 머리 · <b>깨진 문서 링크</b>(문서 › 항목 · 누르면 그 자리)가 줄로 선다. 셸 점검이 더 필요하면 총괄 관리자에게 <code>kmd guard &lt;지식&gt;</code> 와 <code>kmd search-check &lt;지식&gt;</code>(찾기 점검: 제목 문제와 바꾼 문제)를 부탁한다.</p>
 </article>
 </body>
 </html>
